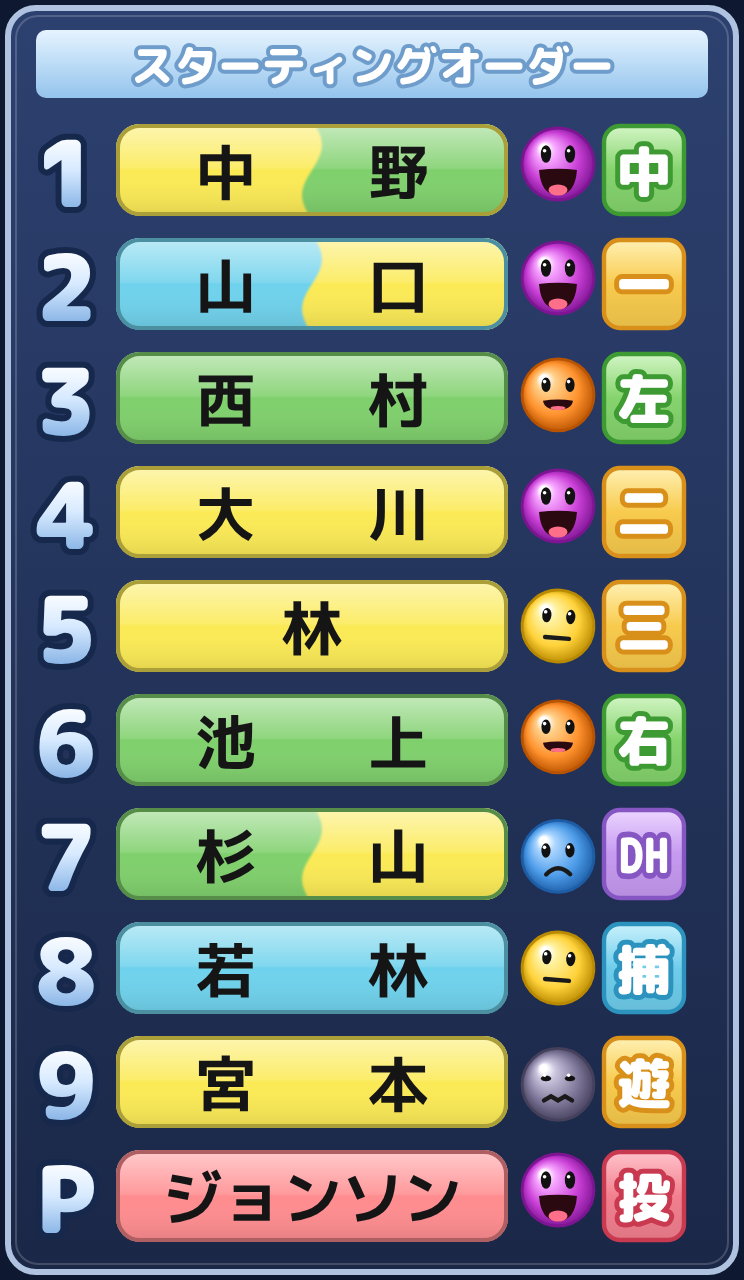
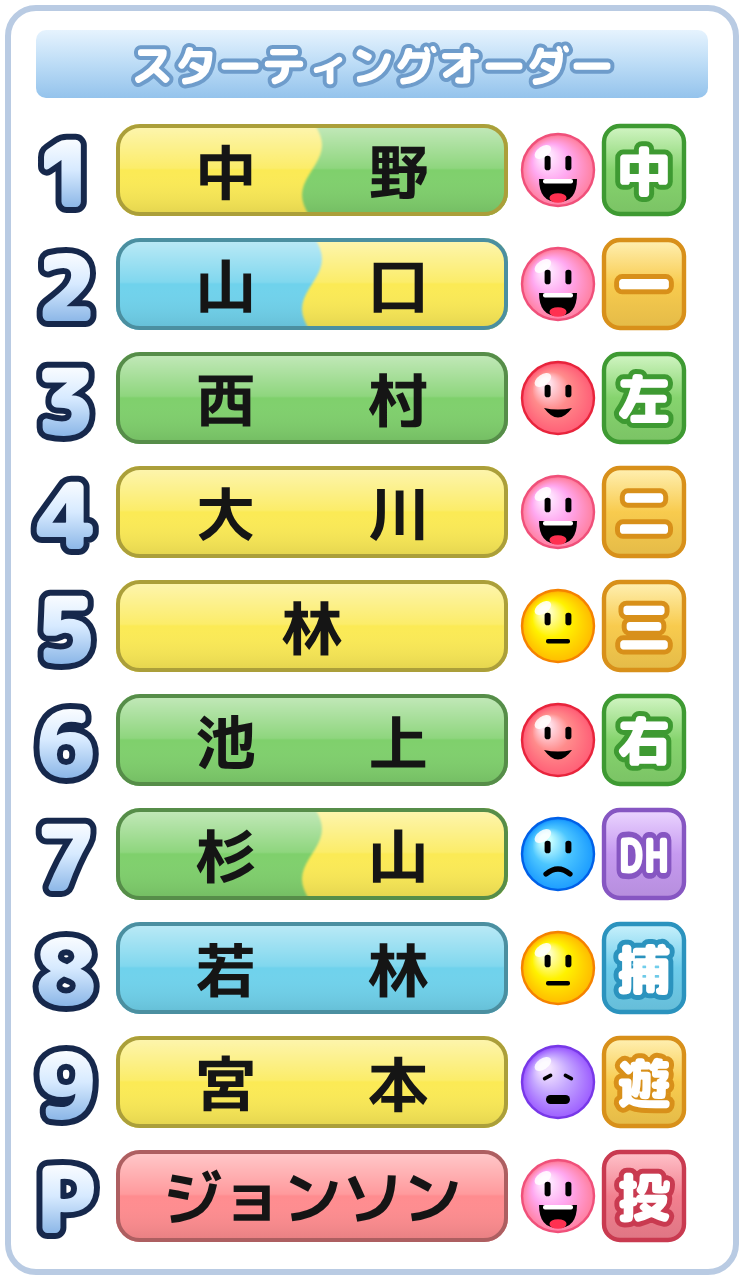
スタメン画像ジェネレーター：調子くんを描き直し、背景を白に
- 調子くんを、つやのある玉・縦長の目の形に描き直す。色は絶好調ピンク・好調赤・普通黄・不調青・絶不調紫
- 動きも調子ごとに作り直す（絶好調は大笑いで跳ねて伸び縮み、好調はにこにこ小さく跳ねる、
  普通はきょろきょろしてまばたき、不調はため息、絶不調はしぼんでうめく）。静止画は止まった形で描く
- 背景を白にする。使用例の画像とOGP画像も作り直す

Claude-Session: https://claude.ai/code/session_01SKh1jhAp32CEmbZCaaEmgk

diff --git a/order/index.html b/order/index.html
@@ -262,11 +262,11 @@ var BADGE_STYLE = {
 
 /* 調子：顔の色と表情。動きは drawFace で決める */
 var CONDITIONS = [
-    { key: "zekko", label: "絶好調", top: "#F7A6FF", base: "#C93FD6", dark: "#7D1592" },
-    { key: "kocho", label: "好調",   top: "#FFD08A", base: "#FF922E", dark: "#B95300" },
-    { key: "futsu", label: "普通",   top: "#FFF2A0", base: "#FFD23A", dark: "#B98A00" },
-    { key: "fucho", label: "不調",   top: "#A9D5FF", base: "#4C9BE8", dark: "#1D5DA6" },
-    { key: "zeffu", label: "絶不調", top: "#C9C3DD", base: "#7D7698", dark: "#45405C" }
+    { key: "zekko", label: "絶好調", hl: "#FFE6FF", top: "#FFA8F0", base: "#FF84A8", dark: "#F0507A", tongue: "#FF3050" },
+    { key: "kocho", label: "好調",   hl: "#FFE0EA", top: "#FF8C8C", base: "#FF6278", dark: "#E8243C", tongue: "#FF3050" },
+    { key: "futsu", label: "普通",   hl: "#FFFFC0", top: "#FFF200", base: "#FFC000", dark: "#F58200", tongue: "#FF3050" },
+    { key: "fucho", label: "不調",   hl: "#C8FFFF", top: "#4CC6FF", base: "#20A0FF", dark: "#0060E8", tongue: "#FF3050" },
+    { key: "zeffu", label: "絶不調", hl: "#F2E2FF", top: "#C4A6FF", base: "#A064FF", dark: "#7838E8", tongue: "#FF3050" }
 ];
 var COND_BY_KEY = {};
 CONDITIONS.forEach(function (c) { COND_BY_KEY[c.key] = c; });
@@ -415,79 +415,145 @@ function drawBadge(ctx, y, pos) {
 }
 
 /* 調子の顔。t は 0〜1（1周のうちの位置） */
+/* 調子の顔。t は 0〜1（1周のうちの位置）。
+   つやのある玉に縦長の目、調子ごとの口と動き（絶好調は大笑いで跳ねて伸び縮み、
+   好調はにこにこ小さく跳ねる、普通はきょろきょろ、不調はため息、絶不調はしぼむ） */
 function drawFace(ctx, cy0, key, t) {
     var c = COND_BY_KEY[key] || COND_BY_KEY.futsu;
     var ph = 2 * Math.PI * t;
-    var dx = 0, dy = 0, rot = 0, open = 0;
-    if (key === "zekko") { dy = -3 * Math.abs(Math.sin(ph)); open = 0.55 + 0.45 * Math.abs(Math.sin(ph)); }
-    else if (key === "kocho") { dy = -1.6 * Math.abs(Math.sin(ph)); open = 0.35 + 0.25 * Math.abs(Math.sin(ph)); }
-    else if (key === "futsu") { rot = 0.08 * Math.sin(ph); }
-    else if (key === "fucho") { dy = 1.2 * Math.sin(ph); rot = -0.05 + 0.04 * Math.sin(ph); }
-    else { dx = 0.9 * Math.sin(ph * 6); dy = 1.2; }
-    var cx = FACE.cx + dx, cy = cy0 + dy, r = FACE.r;
+    var r = FACE.r;
+    var dy = 0, sx = 1, sy = 1, look = 0, blink = false, mouth = "line", open = 0;
+    var still = t === null;
+    if (still) {
+        /* 静止画：跳ねたり伸びたりしていない、止まった形 */
+        mouth = { zekko: "laugh", kocho: "smile", futsu: "line", fucho: "frown", zeffu: "groan" }[key] || "line";
+        open = key === "zekko" ? 0.85 : key === "zeffu" ? 0.5 : 0;
+    } else if (key === "zekko") {
+        /* 1周で2回跳ねる。着地でつぶれ、上がるときに伸びる */
+        var hop = Math.abs(Math.sin(ph));
+        dy = -7 * hop;
+        var land = Math.pow(1 - hop, 6);
+        sx = 1 + 0.12 * land - 0.05 * hop;
+        sy = 1 - 0.12 * land + 0.07 * hop;
+        mouth = "laugh"; open = 0.65 + 0.35 * Math.abs(Math.sin(ph * 2));
+    } else if (key === "kocho") {
+        var hop2 = Math.abs(Math.sin(ph));
+        dy = -2.5 * hop2;
+        var land2 = Math.pow(1 - hop2, 6);
+        sx = 1 + 0.07 * land2; sy = 1 - 0.07 * land2;
+        look = 3 * Math.sin(ph);
+        mouth = "smile";
+    } else if (key === "futsu") {
+        /* 左を見て、右を見て、まばたき */
+        look = 4.5 * Math.sin(ph);
+        blink = t > 0.9;
+        mouth = "line";
+    } else if (key === "fucho") {
+        /* ため息：途中で口が開いて、少し沈む */
+        var sigh = Math.max(0, Math.sin(ph));
+        dy = 1.5 * sigh;
+        sx = 1 + 0.04 * sigh; sy = 1 - 0.04 * sigh;
+        look = -2;
+        mouth = "frown"; open = sigh;
+    } else {
+        /* 絶不調：ゆっくりつぶれて、うめく */
+        var sq = 0.5 - 0.5 * Math.cos(ph);
+        sx = 1 + 0.14 * sq; sy = 1 - 0.16 * sq;
+        mouth = "groan"; open = 0.3 + 0.7 * sq;
+    }
+    /* 足もと（玉の下端）を基準に伸び縮みさせる */
+    var footY = cy0 + r;
     ctx.save();
-    ctx.translate(cx, cy);
-    ctx.rotate(rot);
-    /* 玉 */
-    var g = ctx.createRadialGradient(-r * 0.4, -r * 0.45, r * 0.1, 0, 0, r * 1.05);
-    g.addColorStop(0, "#FFFFFF");
-    g.addColorStop(0.18, c.top);
-    g.addColorStop(0.65, c.base);
+    ctx.translate(FACE.cx, footY + dy);
+    ctx.scale(sx, sy);
+    ctx.translate(0, -r);
+
+    /* 玉：右下に向かって暗く、左上につやの白い斑 */
+    var g = ctx.createRadialGradient(-r * 0.35, -r * 0.4, r * 0.15, r * 0.1, r * 0.15, r * 1.2);
+    g.addColorStop(0, c.hl);
+    g.addColorStop(0.35, c.top);
+    g.addColorStop(0.75, c.base);
     g.addColorStop(1, c.dark);
     ctx.fillStyle = g;
     ctx.beginPath();
     ctx.arc(0, 0, r, 0, 2 * Math.PI);
     ctx.fill();
-    ctx.lineWidth = 1.4;
+    ctx.lineWidth = 1.2;
     ctx.strokeStyle = c.dark;
     ctx.stroke();
-    /* 目 */
-    ctx.fillStyle = "#111";
-    var eyeY = key === "zeffu" || key === "fucho" ? -3 : -5;
-    [-6, 6].forEach(function (ex) {
-        ctx.beginPath();
-        if (key === "zekko") {
-            ctx.ellipse(ex, eyeY, 2.6, 4.4, 0, 0, 2 * Math.PI);
-        } else if (key === "zeffu") {
-            ctx.ellipse(ex, eyeY, 2.6, 1.4, 0, 0, 2 * Math.PI);
-        } else {
-            ctx.ellipse(ex, eyeY, 2.3, 3.6, 0, 0, 2 * Math.PI);
+    ctx.fillStyle = "rgba(255,255,255,0.85)";
+    ctx.beginPath();
+    ctx.ellipse(-r * 0.42, -r * 0.5, r * 0.26, r * 0.15, -0.6, 0, 2 * Math.PI);
+    ctx.fill();
+
+    /* 目：縦長の黒。見る向きで左右に寄る */
+    ctx.fillStyle = "#000";
+    var ex = 5.2, ey = -3.5;
+    [-ex, ex].forEach(function (x) {
+        var xx = x + look;
+        if (blink) { rr(ctx, xx - 2.2, ey, 4.4, 1.6, 0.8); ctx.fill(); return; }
+        if (key === "zeffu") {
+            /* しょんぼりした「ハの字」の目 */
+            ctx.save();
+            ctx.translate(xx, ey + 1);
+            ctx.rotate(x < 0 ? -0.5 : 0.5);
+            rr(ctx, -2.6, -0.9, 5.2, 1.8, 0.9);
+            ctx.fill();
+            ctx.restore();
+            return;
         }
+        var eh = key === "zekko" ? 7.2 : 6.2;
+        rr(ctx, xx - 1.5, ey - eh / 2, 3, eh, 1.4);
         ctx.fill();
-        ctx.fillStyle = "#FFF";
-        ctx.beginPath();
-        ctx.arc(ex - 0.7, eyeY - 1.6, 0.9, 0, 2 * Math.PI);
-        ctx.fill();
-        ctx.fillStyle = "#111";
     });
+
     /* 口 */
-    ctx.lineCap = "round";
-    if (key === "zekko" || key === "kocho") {
-        var mw = key === "zekko" ? 9.5 : 7.5, mh = (key === "zekko" ? 10 : 6) * open;
-        ctx.fillStyle = "#2A0A10";
+    var mx = look * 0.8, my = 5.5;
+    ctx.fillStyle = "#000";
+    if (mouth === "laugh") {
+        var mw = 9.5, mh = 3 + 6 * open;
         ctx.beginPath();
-        ctx.moveTo(-mw, 3);
-        ctx.quadraticCurveTo(0, 3 - 1.2, mw, 3);
-        ctx.quadraticCurveTo(mw * 0.9, 3 + mh * 1.25, 0, 3 + mh * 1.25);
-        ctx.quadraticCurveTo(-mw * 0.9, 3 + mh * 1.25, -mw, 3);
+        ctx.moveTo(mx - mw, my - 1);
+        ctx.lineTo(mx + mw, my - 1);
+        ctx.quadraticCurveTo(mx + mw, my + mh * 1.3, mx, my + mh * 1.3);
+        ctx.quadraticCurveTo(mx - mw, my + mh * 1.3, mx - mw, my - 1);
         ctx.fill();
-        if (mh > 3) {
-            ctx.fillStyle = "#FF6F8A";
+        /* 上の歯と舌 */
+        ctx.fillStyle = "#FFF";
+        rr(ctx, mx - mw + 2, my - 1, (mw - 2) * 2, 2.2, 1);
+        ctx.fill();
+        ctx.fillStyle = c.tongue;
+        ctx.beginPath();
+        ctx.ellipse(mx, my + mh * 1.05, mw * 0.45, Math.max(1, mh * 0.3), 0, 0, 2 * Math.PI);
+        ctx.fill();
+    } else if (mouth === "smile") {
+        ctx.beginPath();
+        ctx.moveTo(mx - 7, my - 0.5);
+        ctx.quadraticCurveTo(mx, my + 1, mx + 7, my - 0.5);
+        ctx.quadraticCurveTo(mx, my + 9, mx - 7, my - 0.5);
+        ctx.fill();
+    } else if (mouth === "line") {
+        rr(ctx, mx - 6, my + 1, 12, 2.2, 1);
+        ctx.fill();
+    } else if (mouth === "frown") {
+        /* への字。ため息のところで口が丸く開く */
+        if (open < 0.25) {
+            ctx.strokeStyle = "#000";
+            ctx.lineWidth = 2.6;
+            ctx.lineCap = "round";
             ctx.beginPath();
-            ctx.ellipse(0, 3 + mh * 1.0, mw * 0.5, mh * 0.28, 0, 0, 2 * Math.PI);
+            ctx.moveTo(mx - 6, my + 4.5);
+            ctx.quadraticCurveTo(mx, my - 0.5, mx + 6, my + 4.5);
+            ctx.stroke();
+        } else {
+            ctx.beginPath();
+            ctx.ellipse(mx, my + 3, 2.5 + 2.5 * open, 1.8 + 3 * open, 0, 0, 2 * Math.PI);
             ctx.fill();
         }
     } else {
-        ctx.strokeStyle = "#1A1A1A";
-        ctx.lineWidth = 2.2;
-        ctx.beginPath();
-        if (key === "futsu") { ctx.moveTo(-6, 6); ctx.lineTo(6, 6); }
-        else if (key === "fucho") { ctx.moveTo(-6, 9); ctx.quadraticCurveTo(0, 3, 6, 9); }
-        else {
-            ctx.moveTo(-7, 8);
-            for (var i = 1; i <= 4; i++) ctx.lineTo(-7 + i * 3.5, 8 + (i % 2 ? -2 : 0));
-        }
-        ctx.stroke();
+        var gh = 2 + 5 * open;
+        rr(ctx, mx - 6, my + 1, 12, gh, Math.min(3, gh / 2));
+        ctx.fill();
     }
     ctx.restore();
 }
@@ -505,18 +571,12 @@ function canvasHeight() {
 function drawStatic(ctx) {
     var h = canvasHeight();
     ctx.clearRect(0, 0, W, h);
-    /* 外側（角の外）は暗い紺で埋める。GIFは透明を扱いにくいので、透明にはしない */
-    ctx.fillStyle = "#0E1830";
+    /* 背景は白。GIFは透明を扱いにくいので、透明にはしない */
+    ctx.fillStyle = "#FFFFFF";
     ctx.fillRect(0, 0, W, h);
     rr(ctx, 4, 4, W - 8, h - 8, 14);
-    ctx.fillStyle = vgrad(ctx, 0, h, [[0, "#2D4170"], [1, "#1A2747"]]);
-    ctx.fill();
     ctx.lineWidth = 3;
-    ctx.strokeStyle = "#AFC3E0";
-    ctx.stroke();
-    rr(ctx, 8, 8, W - 16, h - 16, 11);
-    ctx.lineWidth = 1;
-    ctx.strokeStyle = "rgba(255,255,255,0.18)";
+    ctx.strokeStyle = "#B9CBE3";
     ctx.stroke();
 
     /* 見出し */
@@ -701,7 +761,7 @@ function fileBase() {
 function makePng() {
     var cv = document.createElement("canvas");
     cv.width = Math.round(W * 2); cv.height = Math.round(canvasHeight() * 2);
-    drawFrame(cv, 2, 0.25);
+    drawFrame(cv, 2, null);
     return new Promise(function (resolve) {
         cv.toBlob(function (b) { resolve({ blob: b, name: fileBase() + ".png", type: "image/png" }); }, "image/png");
     });
